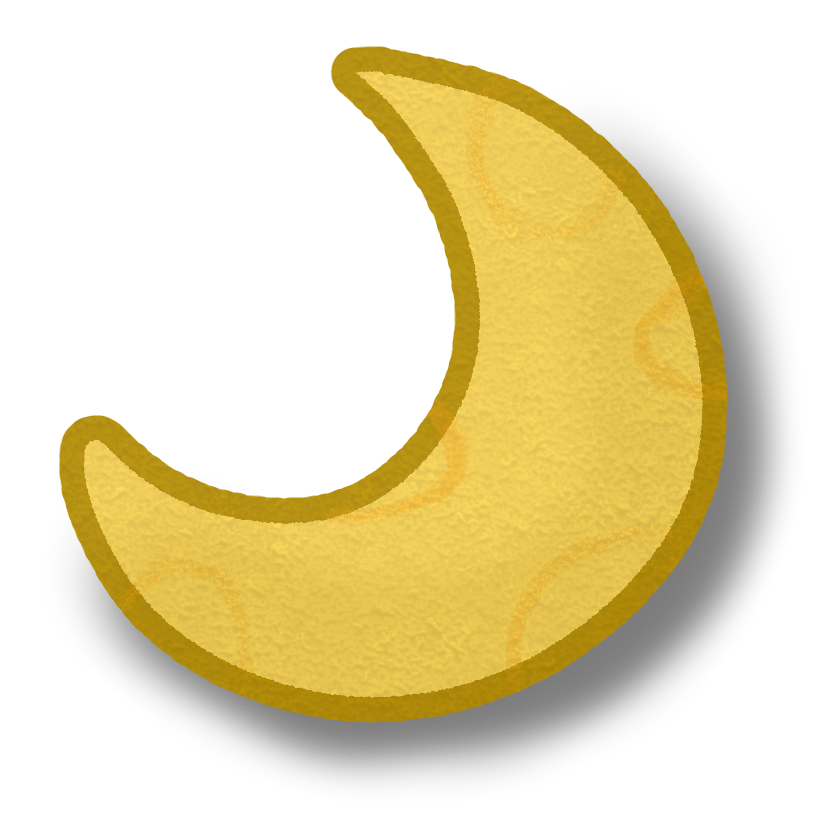
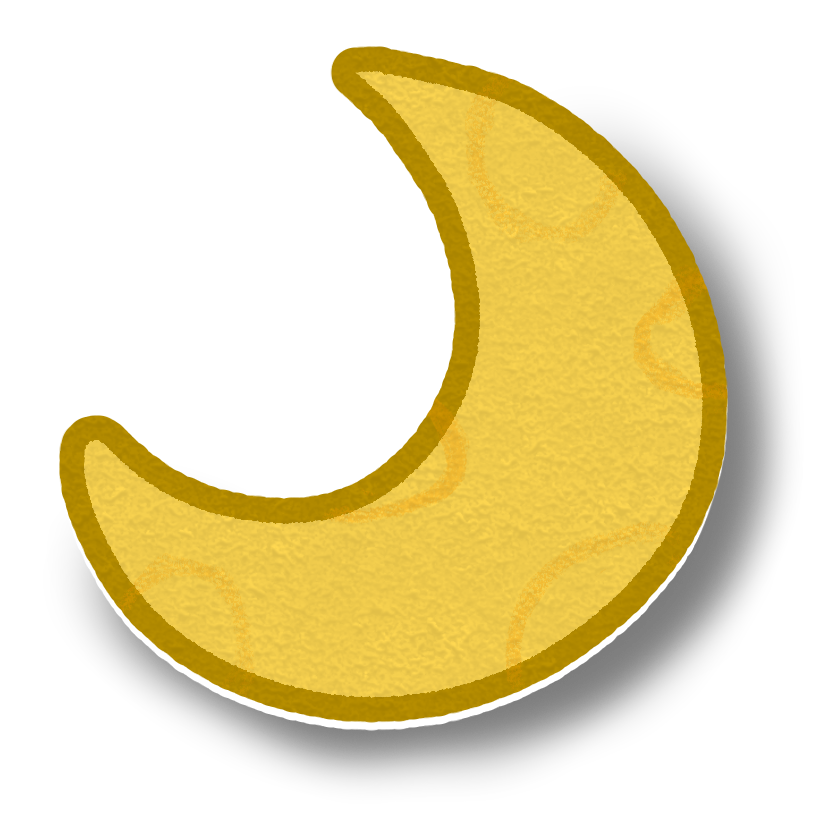
Small Update

Pull request: Small Update

diff --git a/nilten/home.html b/nilten/home.html
@@ -218,26 +218,17 @@
             <br>
 
             <div style="display: flex; width: 100%; gap: 15px;">
-                <div id="mainContainerTwo" style="margin: auto; width: 45%;">
-                    <h1 style="text-align: center; text-decoration: underline; margin-bottom: 35px;">Special thanks:</h1>
-                    <div style="text-align: left; width: 60%; margin-left: 6px;">
-                        <span style="width: fit-content; display: flex; align-items: center; gap: 5px;"><p class="linkTypeOne" style="width: fit-content;"><span style="font-size: larger; text-decoration: underline;"><a href="https://neocities.org" target="_blank" rel="noopener noreferrer">Neocities: </a></span></p><p> Web hosting</p></span>
-                        <span style="width: fit-content; display: flex; align-items: center; gap: 5px;"><p class="linkTypeOne" style="width: fit-content;"><span style="font-size: larger; text-decoration: underline;"><a href="https://goblin-heart.net" target="_blank" rel="noopener noreferrer">Goblin Heart: </a></span></p><p> Layout builder tool</p></span>
-                        <span style="width: fit-content; display: flex; align-items: center; gap: 5px;"><p class="linkTypeOne" style="width: fit-content;"><span style="font-size: larger; text-decoration: underline;"><a href="https://github.com/Vincenius" target="_blank" rel="noopener noreferrer">Vincenius: </a></span></p><p> Bluesky Embed</p></span>
-                        <span style="width: fit-content; display: flex; align-items: center; gap: 5px;"><p class="linkTypeOne" style="width: fit-content;"><span style="font-size: larger; text-decoration: underline;"><a href="https://www.w3schools.com" target="_blank" rel="noopener noreferrer">W3Schools</a></span></p> <p>and</p> <p class="linkTypeOne" style="width: 215px;"><span style="font-size: larger; text-decoration: underline;"><a href="https://developer.mozilla.org/en-US" target="_blank" rel="noopener noreferrer">MDN Web Docs: </a></span></p><p> Additional HTML and CSS help</p></span>
-                        <br>
-                        <p style="font-size: 14px; margin-top: 25px;"><span style="font-size: larger; text-decoration: underline;">About the
-                        88x31 buttons: </span>If you see your Button on this page, please contact me at <span
-                        style="text-decoration: underline;">[email redacted]</span>, as i haven't been able to find any
-                        names associated with some of the buttons used on this page.</p>
-                    </div>
+                <div id="mainContainerTwo" style="margin: auto; width: 55%; height: 725px;">
+                    <img src="images/home/home_youtube_recommendation.webp" style="width: 80%; height: auto; display: block;  margin: 0 auto;">
+                    <div style="margin: 45px;"></div>
+                    <div style="margin: auto; width: 570px;" class="borderTypeOne"><iframe width="560" height="315" src="https://www.youtube-nocookie.com/embed/jzRlSRdV2_4?si=h7r3GY7QBxBBnQwF" frameborder="0" allow="accelerometer; autoplay; clipboard-write; encrypted-media; gyroscope; picture-in-picture; web-share" referrerpolicy="strict-origin-when-cross-origin" allowfullscreen></iframe></div>
                 </div>
 
-                <div id="mainContainerTwo">
+                <div id="mainContainerTwo" style="width: 45%; height: 725px;">
                     <div>
                         <img src="images/home/home_bsky.webp" style="width: 350px; height: auto; display: block; margin: auto; margin-bottom: 15px;">
                     </div>
-                    <div style="margin: auto; max-height: 650px; overflow: hidden; overflow-y: scroll; scrollbar-color: black; scrollbar-width: thin; background-image: url('images/generic/div_bg_01.webp');" class="borderTypeOne">
+                    <div style="margin: auto; max-height: 550px; overflow: hidden; overflow-y: scroll; scrollbar-color: black; scrollbar-width: thin; background-image: url('images/generic/div_bg_01.webp');" class="borderTypeOne">
                         <script type="module" src="https://cdn.jsdelivr.net/npm/bsky-embed/dist/bsky-embed.es.js" async></script>
                         <bsky-embed
                         username="nilten.neocities.org"
@@ -252,7 +243,24 @@
                         </bsky-embed>
                     </div>
                 </div>
-            </div> <!-- container for special thanks and bluesky embed -->
+            </div> <!-- container for miles recommendations and bluesky embed -->
+            <div style="margin: 50px;"></div>
+            <div style="display: block; width: 70%; margin: auto;">
+                <div id="mainContainerTwo" style="margin: auto;">
+                    <b><p style="text-align: center; font-size: xx-large; text-decoration: underline; margin-bottom: 35px;">Special thanks:</p></b>
+                    <div style="text-align: left; width: 60%; margin-left: 6px;">
+                        <span style="width: fit-content; display: flex; align-items: center; gap: 5px;"><p class="linkTypeOne" style="width: fit-content;"><span style="font-size: larger; text-decoration: underline;"><a href="https://neocities.org" target="_blank" rel="noopener noreferrer">Neocities: </a></span></p><p> Web hosting</p></span>
+                        <span style="width: fit-content; display: flex; align-items: center; gap: 5px;"><p class="linkTypeOne" style="width: fit-content;"><span style="font-size: larger; text-decoration: underline;"><a href="https://goblin-heart.net" target="_blank" rel="noopener noreferrer">Goblin Heart: </a></span></p><p> Layout builder tool</p></span>
+                        <span style="width: fit-content; display: flex; align-items: center; gap: 5px;"><p class="linkTypeOne" style="width: fit-content;"><span style="font-size: larger; text-decoration: underline;"><a href="https://github.com/Vincenius" target="_blank" rel="noopener noreferrer">Vincenius: </a></span></p><p> Bluesky Embed</p></span>
+                        <span style="width: fit-content; display: flex; align-items: center; gap: 5px;"><p class="linkTypeOne" style="width: fit-content;"><span style="font-size: larger; text-decoration: underline;"><a href="https://www.w3schools.com" target="_blank" rel="noopener noreferrer">W3Schools</a></span></p> <p>and</p> <p class="linkTypeOne" style="width: 215px;"><span style="font-size: larger; text-decoration: underline;"><a href="https://developer.mozilla.org/en-US" target="_blank" rel="noopener noreferrer">MDN Web Docs: </a></span></p><p> Additional HTML and CSS help</p></span>
+                        <br>
+                        <p style="font-size: 14px; margin-top: 25px;"><span style="font-size: larger; text-decoration: underline;">About the
+                        88x31 buttons: </span>If you see your Button on this page, please contact me at <span
+                        style="text-decoration: underline;">[email redacted]</span>, as i haven't been able to find any
+                        names associated with some of the buttons used on this page.</p>
+                    </div>
+                </div>
+            </div>
 
             <div id="pennyNap" style="width: 250px; height: 175px; float: inline-end; margin-top: 50px; background-size: contain; background-repeat: no-repeat;"></div>
         